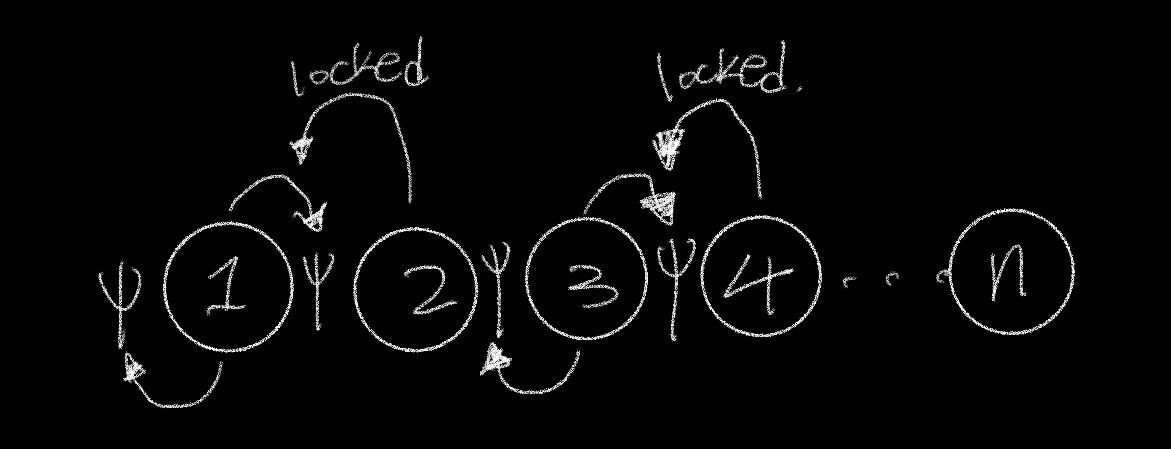
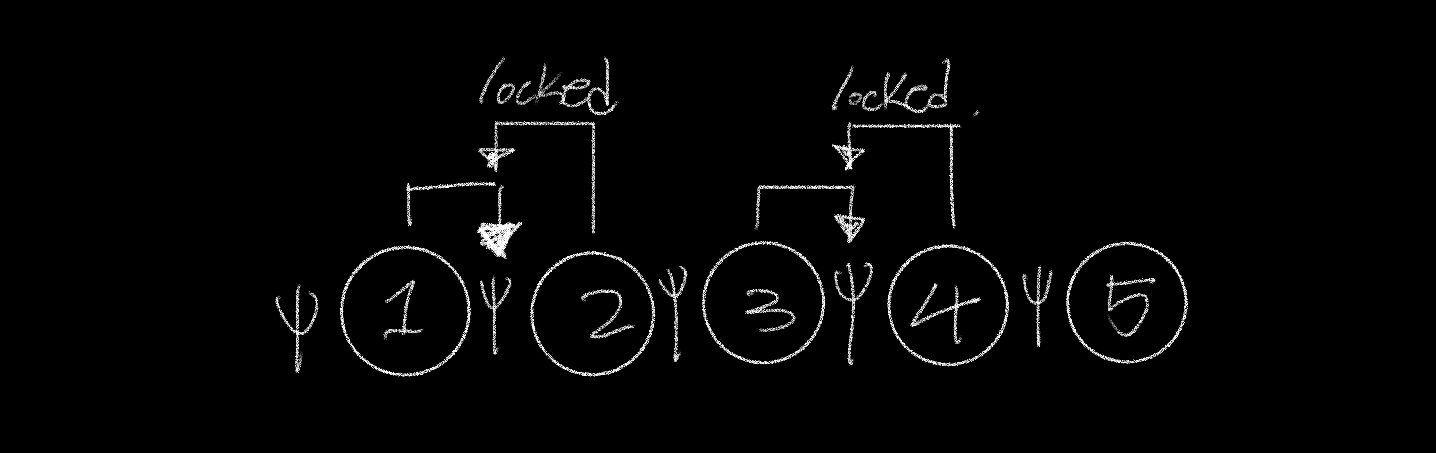
Fix philosophers page

diff --git a/devLog/Philosophers.md b/devLog/Philosophers.md
@@ -1,11 +1,34 @@
 # Philosophers
 
-원탁에 둘러 앉은 철학자들이 최대한 굶어 죽지 않도록 구현하는 과제이다. 
+## 식사하는 철학자 문제
 
-철학자는 식사, 수면, 생각 중 한가지를 하고 있다.  
-주어진 시간 안에 식사를 하지 않으면 사망한다.  
-식사를 마치면 수면에 들어가고, 수면을 마치면 생각을 한다.  
-식사는 양 옆에 있는 2개의 포크로 한다. 두 철학자 사이에 1개의 포크가 존재한다.  
+![철학자의 원탁](../src/philo_05.jpeg)  
+
+원탁에 둘러 앉아있는 철학자들이 최대한 굶어 죽지 않도록 구현하는 과제이다. 철학자는 2개의 포크를 가지고 식사를 해야한다. 그런데 두 철학자 사이에는 1개의 포크만 있기 때문에 옆에 있는 철학자가 식사 중이라면 포크를 내려놓기 전까지 기다려야 한다. 만약에 기다리던 철학자가 주어진 시간 안에 2개의 포크를 가지고 식사를 시작하지 않으면 굶어 죽게 되는 것이다.  
+
+## 교착 상태 (deadlock)
+![교착 상태](../src/philo_06.jpeg)
+철학자 과제에서 해결해야하는 문제는 교착상태이다. 철학자들이 옆사람의 식사가 끝나기를 기다리다가 아무런 동작을 하지 못하고 굶어 죽게되는 상태이다. 교착 상태는 다중 프로그래밍의 주요 난점 중 하나로써 두 개 이상의 작업이 상대방의 작업이 끝나기만을 기다리고 있는 상태로 아무것도 완료되지 못하는 상태를 말한다. 교착 상태가 일어나려면 다음과 같은 네 가지 조건을 충족시켜야 한다.  
+
+	상호 배제: 프로세스들이 필요로 하는 자원에 대해 배타적인 통제권을 요구한다.
+	점유 대기: 프로세스가 할당된 자원을 가진 상태에서 다른 자원을 기다린다.
+	순환 대기: 각 프로세스는 순환적으로 다음 프로세스가 요구하는 자원을 가지고 있다.
+	비선점: 프로세스가 어떤 자원의 사용을 끝낼 때까지 그 자원을 뺏을 수 없다.
+
+교착 상태은 위의 조건 중 한 가지라도 만족하지 않으면 발생하지 않는다. 다음과 같은 방법으로 교착 상태를 예방할 수 있다.
+
+	상호 배제 부정: 여러 개의 프로세스가 공유 자원을 사용할 수 있도록 한다.
+	점유 대기 부정: 프로세스가 실행되기 전 필요한 모든 자원을 할당한다.
+	순환 대기 부정: 자원에 고유한 번호를 할당하고 순서대로 자원을 요구하도록 한다. 
+	비선점 부정: 자원을 점유하고 있는 프로세스가 다른 자원을 요구할 때 점유하고 있는 자원을 반납하고 요구한 자원을 사용하기 위해 기다리도록 한다.
+
+## 교착 상태 해결
+![교착 상태 해결](../src/philo_03.jpeg)
+교착 상태를 해결하기 위해서 철학자에게 먼저 가져가야할 포크의 위치를 정해준다. 철학자에게 고유 번호를 부여하고 홀수인 경우에는 오른쪽 포크를 먼저 가져가고, 짝수인 경우에는 왼쪽 포크를 먼저 가져가도록 하였다. 1번 철학자가 오른쪽 포크를 가져가고, 2번 철학자는 1번 철학자가 그 포크를 내려놓기 전까지 기다린다. 그리고 철학자들은 순서대로 생성되기 때문에 1번 철학자는 5번 철학자가 생성되기 전에 그 사이에 있는 포크를 잡고 식사를 한다.  
+
+이 방법은 순환 대기 조건을 해결하여 교착 상태에 빠지지 않는다. 철학자 간에 먼저 포크를 잡는 철학자 그룹과 대기하는 그룹이 형성되어 순서대로 식사를 할 수 있게 된다.
+
+
 
 프로그램은 다음의 인자를 순서대로 받는다.
 - 철학자의 수
@@ -18,7 +41,6 @@
 
 ![전체 구조](../src/philo_01.jpeg)
 ![스레드 구조](../src/philo_02.jpeg)
-![식사 구조](../src/philo_03.jpeg)
 ![new_sleep](../src/philo_04.jpeg)
 
 컨텍스트 스위칭에 소요되는 시간으로 인해서 시간이 늘어간다.
@@ -26,8 +48,6 @@
 스레드를 non-detached로 생성한 경우에는 pthread_join으로 자원을 메모리에서 해제해주어야 한다. 메인 스레드에서 pthread_join을 호출하면 인자로 넘긴 스레드가 종료될 때까지 기다린다.
 스레드를 detached로 생성한 경우에는 join을 호출할 필요없이 스레드가 종료될때 자원이 자동으로 반환된다.  
 [join과 detach의 차이점](https://m.blog.naver.com/PostView.naver?isHttpsRedirect=true&blogId=shlee7708&logNo=120113380564)
-
-
 
 
 
@@ -69,15 +89,14 @@
     - 반복문으로 목표 시간까지 시간을 계산해서 usleep 실행
     - ((목표 시간 - 현재 시간) / 3) * 2000
     - 만약에 (목표 시간 - 현재 시간)이 10ms 보다 적다면 usleep(50) 반복
-- [ ] mutex destroy
+- [x] mutex destroy
   - [x] 제거하기 전에 잠금을 해제한다.
   - [x] 출력은 종료 전까지만 실행되고, 종료 함수는 출력 mutex가 제거될 때까지 계속 mutex_destroy를 실행한다.
-  - [ ] 
 - [x] 메모리 누수
-- [ ] malloc guard
-- [ ] 파일 정리
+- [x] malloc guard
+- [x] 파일 정리
 - [x] norminette
-- [ ] 프로그램 인자
-  - [ ] validation 함수
+- [x] 프로그램 인자
+  - [x] validation 함수
 - [x] 과제 설명 준비
 
